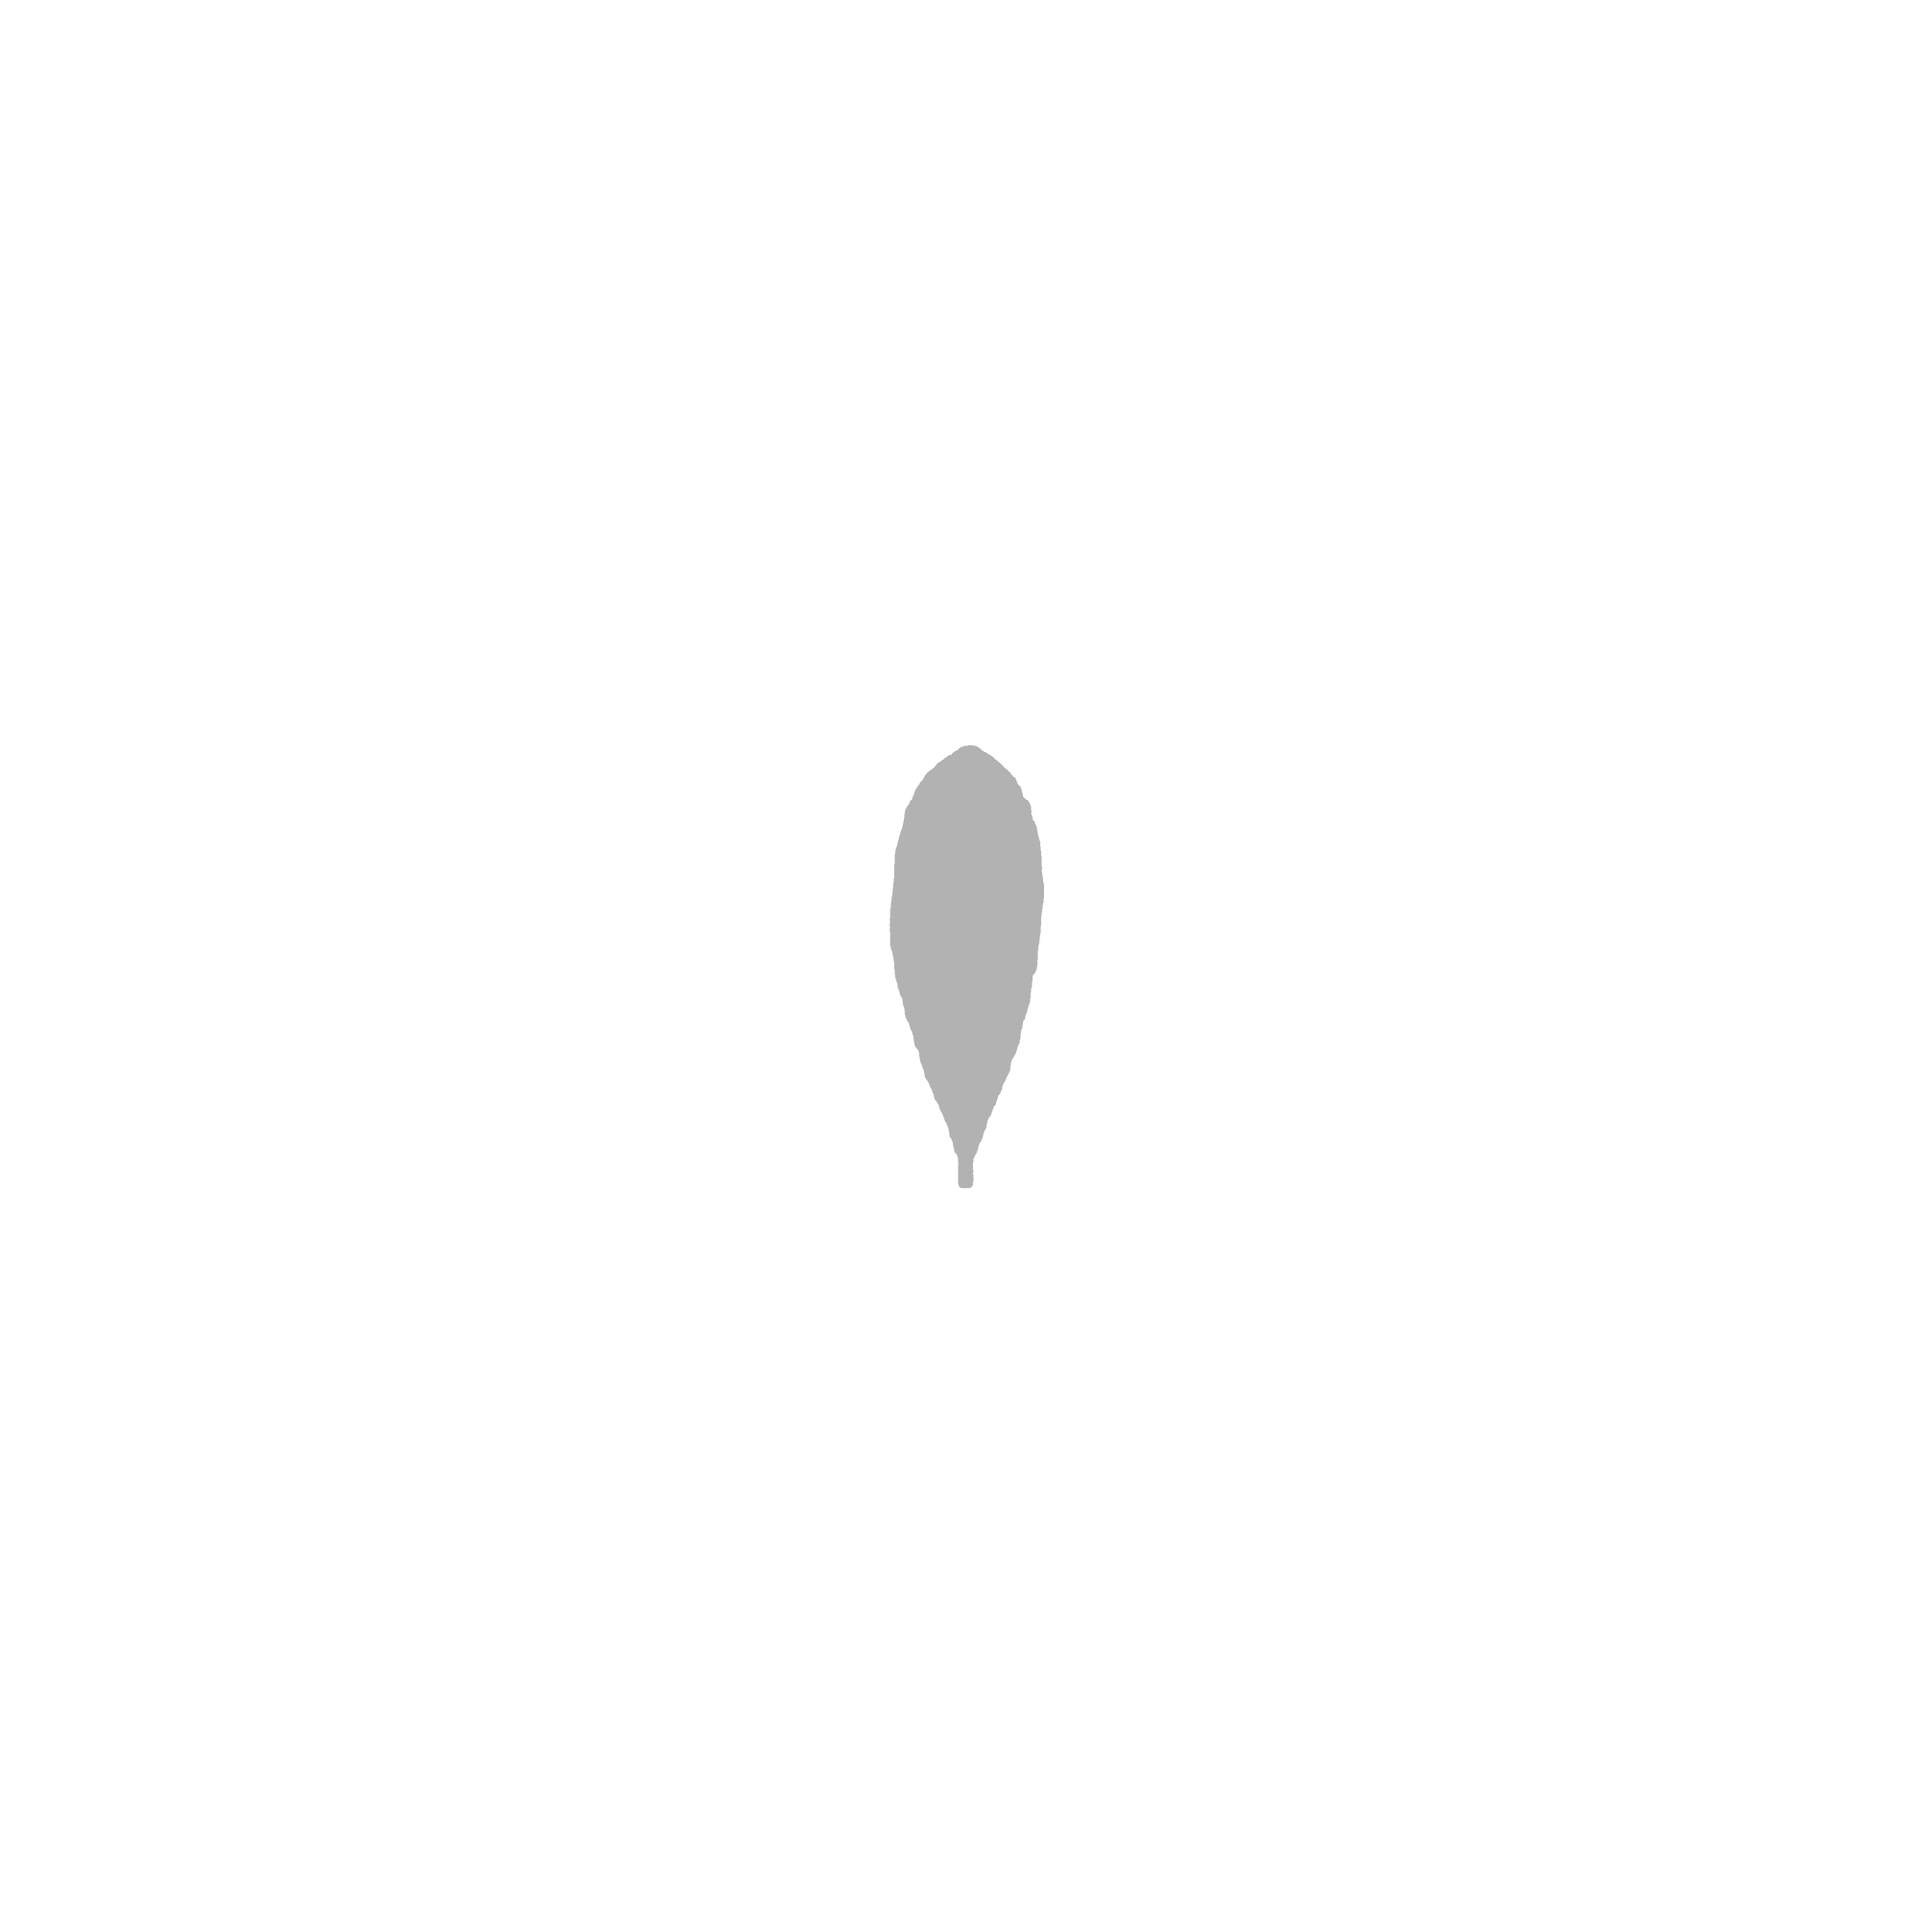
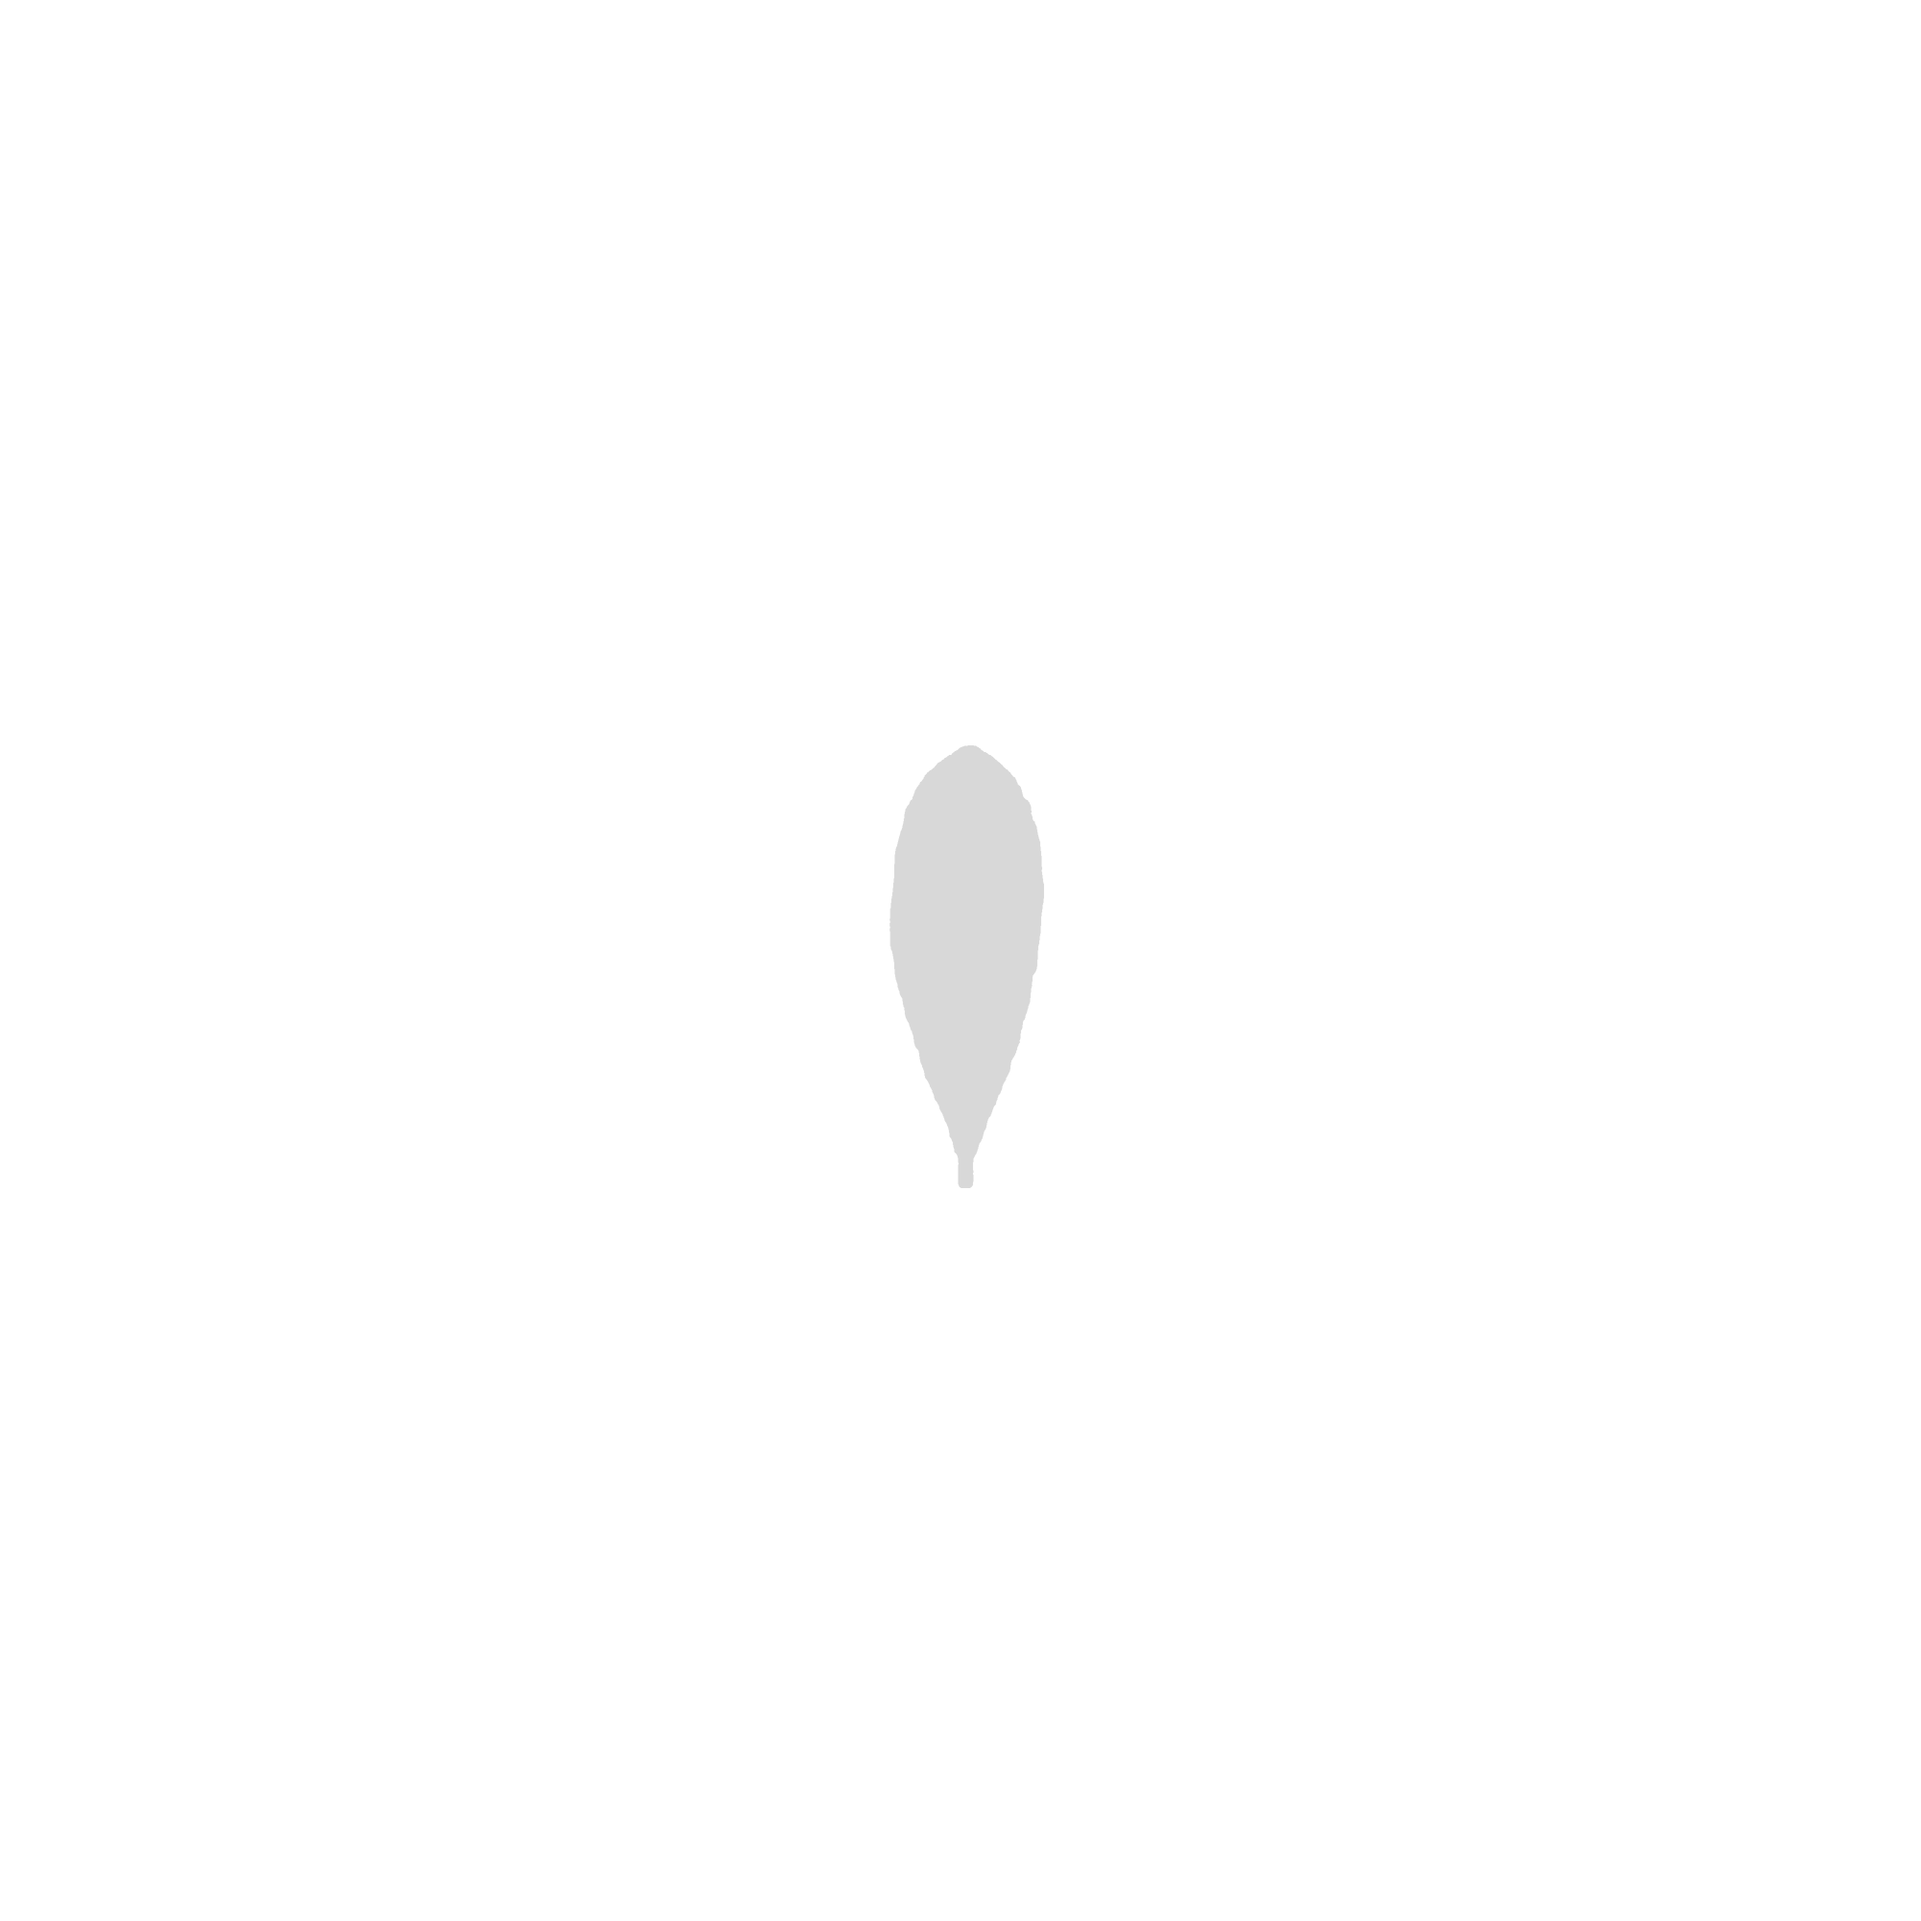
Major Revision

Changed region(s): [[0.465, 0.372, 0.558, 0.62]]

diff --git a/rotationscape.js b/rotationscape.js
@@ -13,9 +13,14 @@ let getCol = "#EF3340";
 let leafSelector = 0;
 let _r, _b, _g, _a;
 let click;
-let introLayer;
+let introLayer, introLayer2;
 let sliderImg, sliderIcon;
 let sliderPressed = 0;
+let rotIntro = 0;
+let rotScale;
+let introActive = 0;
+let introColour = 0;
+let prevX, prevY; // used in intro (layer2)
 
 function preload() {
   bg = loadImage('assets/paper.jpg');
@@ -52,11 +57,16 @@ function setup() {
   hiddenLayer.fill(0, 0, 0, 0);
   textLayer = createGraphics(width, height);
   introLayer = createGraphics(width, height);
+  introLayer.noStroke();
+  introLayer.fill(255, 100);
+    introLayer2 = createGraphics(width, height);
+    introLayer2.noStroke();
   leafChoice = createGraphics(width, height);
   sliderImg = createGraphics(width, height);
   scalarImg = createGraphics(width, height);
   dimensionCalc();
   slideShow();
+
 }
 
 function dimensionCalc() {
@@ -73,7 +83,10 @@ function dimensionCalc() {
     vMax = height / 100;
     circleRad = shortEdge * 0.45;
   }
+  rotScale = 0;
 }
+
+
 
 function mouseReleased() {
   drawLayer.stroke(0, 0, 0, 0);
@@ -81,6 +94,14 @@ function mouseReleased() {
   hiddenLayer.stroke(0, 0, 0, 0);
   hiddenLayer.fill(0, 0, 0, 0);
   sliderTouch = 0;
+  introColour = int(random(0,colArray.length));
+
+
+
+
+  if (introState < 3){
+    introActive = 0;
+  }
 }
 
 function touchMoved() {
@@ -94,12 +115,12 @@ function touchMoved() {
   }
   if (sliderTouch === 1) {
     if (mouseX > (4 * hmax) && mouseX < (12 * hmax) && mouseY > (4 * hmax) && mouseY < height / 2 - (4 * hmax)) {
-      makeSlider();
+      makeSlider(mouseY);
       rotateLeaf(mouseX, mouseY);
     }
     if (mouseX > (4 * hmax) && mouseX < (13 * hmax) && mouseY > (height / 2) + (4 * hmax) && mouseY < height - (4 * hmax)) {
-      makeScaler();
-      scalar = mouseY / height;
+      makeScaler(mouseY);
+      scalar =(mouseY / (height/3))-1;
       leafLayer.push();
       leafLayer.clear();
       leafLayer.imageMode(CENTER);
@@ -120,7 +141,7 @@ function touchMoved() {
     }
   }
 }
-  console.log("is this visible")
+
   return false;
 }
 
@@ -129,6 +150,10 @@ function rotateLeaf(_x, _y) {
   // rot = rot + (rotEnd - rotStart);
   rot = (_y / height) * 6 * PI;
   //rotStart = rotEnd;
+drawLeaves();
+}
+
+function drawLeaves(){
   leafLayer.push();
   leafLayer.clear();
   leafLayer.imageMode(CENTER);
@@ -152,18 +177,26 @@ function makeDrawing(_x, _y, pX, pY) {
 
   if (sliderTouch === 0){
   drawLayer.blendMode(BLEND);
-  drawLayer.strokeWeight(constrain(abs((_y + _x) - (pX + pY)), 30, 60)); // for line work
-  drawLayer.stroke(colArray[brushSelected]);
-  drawLayer.line(_x, _y, pX, pY);
+  drawLayer.strokeWeight(constrain(abs((_y + _x) - (pX + pY)), 40, 60)); // for line work
+  drawLayer.stroke(colorChange(colArray[brushSelected], 0.2));
+  for (let i = 0; i < 3; i++){
+  let driftX = random(-30,30);
+  let driftY = random(-30,30);
+  drawLayer.line(_x+driftX, _y+driftY, pX+driftX, pY+driftY);
+  }
+
   drawLayer.blendMode(REMOVE)
   drawLayer.image(strokeLayer, 0, 0, width, height);
-  // THE PROBLEM IS HERE
-  // permaLayer.blendMode(BLEND);
   permaLayer.image(drawLayer, 0, 0, width, height);
-  // hiddenLayer.strokeWeight(constrain(abs((_y + _x) - (pX + pY)), 40, 110)); // for line work
-  // hiddenLayer.stroke(getCol);
-  // hiddenLayer.line(_x, _y, pX, pY);
+
 }
+}
+
+function colorChange(aColor, alpha) {
+  var c = color(aColor);
+  let rand = random(0.5, 1.5);
+
+  return color('rgba(' + [int(red(c)*rand), green(c), blue(c), alpha].join(',') + ')');
 }
 
 function wetDrawing(_x, _y) {
@@ -200,8 +233,38 @@ function draw() {
     if (slide > 0) {
       stroke(150);
       strokeWeight(7);
-      //line(xintro[throughDotCount - 1], yintro[throughDotCount - 1], mouseX, mouseY);
+
+      if (introActive){
+      let randX = randomGaussian(-40,40);
+      let randY = randomGaussian(-30,30);
+      introLayer2.push();
+      introLayer2.imageMode(CENTER);
+      introLayer2.translate(width / 2, height / 2);
+      introLayer2.rotate(rotIntro/30);
+
+      introLayer2.translate(randX, (rotScale/3));
+      for (let i = 0; i < 100; i++){
+      introLayer2.fill(colorChange(colArray[introColour], .1));
+      introLayer2.ellipse(0, randY, 35, 90);
+    }
+      introLayer2.pop();
+    }
+
+      rotIntro--;
+      introLayer.push();
+      introLayer.clear();
+      introLayer.imageMode(CENTER);
+      introLayer.translate(width / 2, height / 2);
+      introLayer.rotate(rotIntro/30);
+      introLayer.translate(0, rotScale++/3);
+      introLayer.ellipse(0, 0, 40, 100);
+      introLayer.pop();
+
+      image(introLayer2, 0, 0, width, height);
       image(introLayer, 0, 0, width, height);
+
+
+
     }
     if (slide === 0) {} else {
       textLayer.text(introText[slide - 1], width / 2, (height / 6) * (slide));

diff --git a/ui.js b/ui.js
@@ -269,9 +269,8 @@ leafLayer.clear();
 strokeLayer.clear();
   touchStarted();
   touchMoved();
+  drawLeaves();
 
-
-  //drawImg();
 }
 
 function saveImg() {
@@ -281,26 +280,26 @@ function saveImg() {
   save('dotscape' + month() + day() + hour() + second() + '.jpg');
 }
 
-function makeSlider() {
+function makeSlider(_y) {
   sliderImg.clear();
   sliderImg.stroke(255);
   sliderImg.strokeWeight(7*hmax);
   sliderImg.line(6 * hmax, 8 * hmax, 6*hmax, height/2 - (4 * hmax));
   sliderImg.stroke("#5cf22c");
   sliderImg.strokeWeight(7*hmax);
-  sliderImg.line(6 * hmax, 8 * hmax, 6*hmax, constrain(mouseY, 8*hmax, height/2 - (4 * hmax)));
+  sliderImg.line(6 * hmax, 8 * hmax, 6*hmax, constrain(_y, 8*hmax, height/2 - (4 * hmax)));
   sliderImg.imageMode(CENTER);
-  sliderImg.image(sliderIcon, 6*hmax, constrain(mouseY, 8*hmax, height/2 - (4 * hmax)), 6.5*hmax, 6.5*hmax);
+  sliderImg.image(sliderIcon, 6*hmax, constrain(_y, 8*hmax, height/2 - (4 * hmax)), 6.5*hmax, 6.5*hmax);
 }
 
-function makeScaler() {
+function makeScaler(_y) {
   scalarImg.clear();
   scalarImg.stroke(255);
   scalarImg.strokeWeight(7*hmax);
   scalarImg.line(6 * hmax, height/2+(4 * hmax), 6*hmax, height - (8 * hmax));
   scalarImg.stroke("#EF3340");
   scalarImg.strokeWeight(7*hmax);
-  scalarImg.line(6 * hmax, height/2+(4 * hmax), 6 * hmax, constrain(mouseY, height/2+(4 * hmax), height - (8 * hmax)));
+  scalarImg.line(6 * hmax, height/2+(4 * hmax), 6 * hmax, constrain(_y, height/2+(4 * hmax), height - (8 * hmax)));
   scalarImg.imageMode(CENTER);
-  scalarImg.image(sliderIcon, 6 * hmax, constrain(mouseY, height/2+(4 * hmax), height-8*hmax), 6.5*hmax, 6.5*hmax);
+  scalarImg.image(sliderIcon, 6 * hmax, constrain(_y, height/2+(4 * hmax), height-8*hmax), 6.5*hmax, 6.5*hmax);
 }

diff --git a/slideshow.js b/slideshow.js
@@ -1,6 +1,6 @@
 let introText = ["Touchez", "Regardez", "Ecoutez", "Touchez"];
 let slide = 0;
-let delayTime = 800;
+let delayTime = 10000;
 let introState = 0;
 let startButton;
 let sliderTouch = 0;
@@ -17,7 +17,9 @@ function touchStarted() {
   if (introState < 3) {
     if (audio.isPlaying()) {} else {
       audio.loop(5);
+
     }
+    introActive = 1;
 
   }
   if (slide === 0) {
@@ -47,8 +49,8 @@ function slideShow() {
     //windowResized();
     writeTextUI();
     rotateLeaf(width/1.5,height);
-      makeSlider();
-      makeScaler();
+      makeSlider(height/4);
+      makeScaler(height-height/4);
 
 
     counter = 0;
@@ -60,7 +62,7 @@ function slideShow() {
     textLayer.rectMode(CENTER);
     if (slide > 0) {
       if (slide === introText.length - 1) {
-        delayTime = 1000;
+        delayTime = 10000;
       }
       slide++;
 
